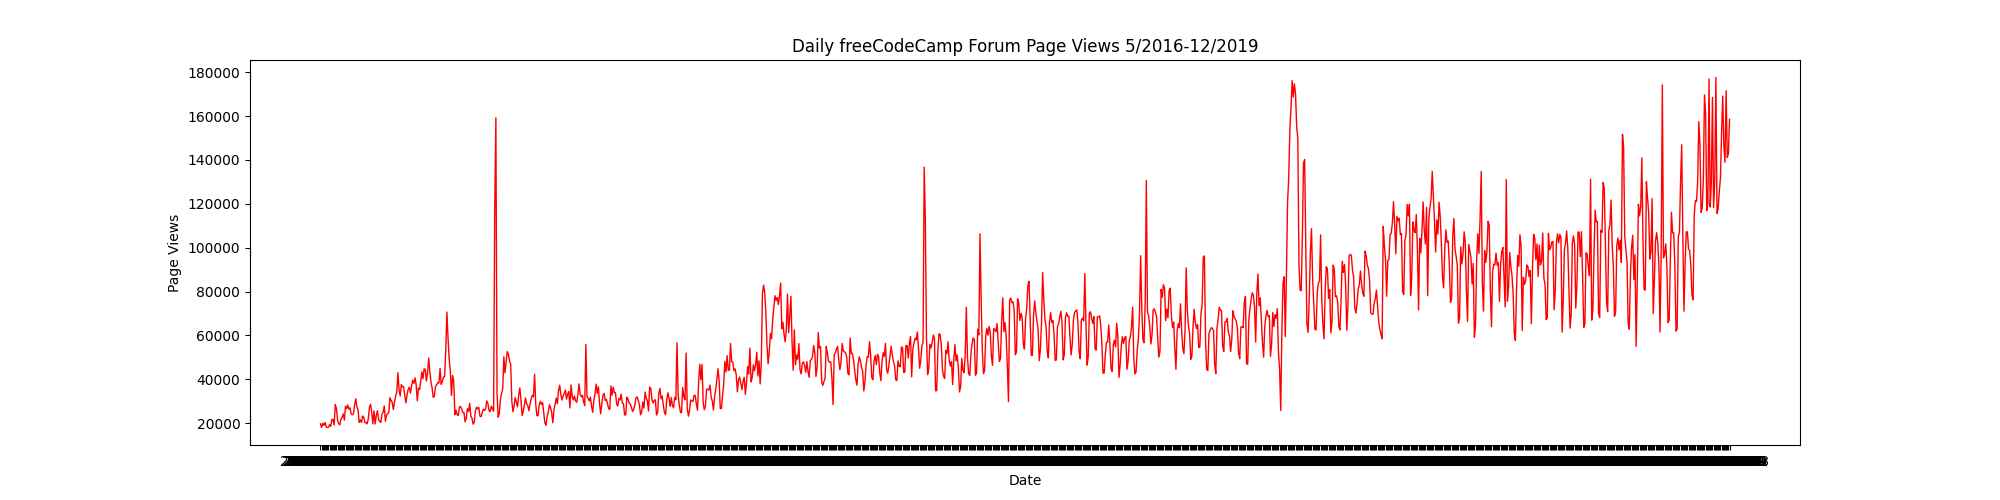
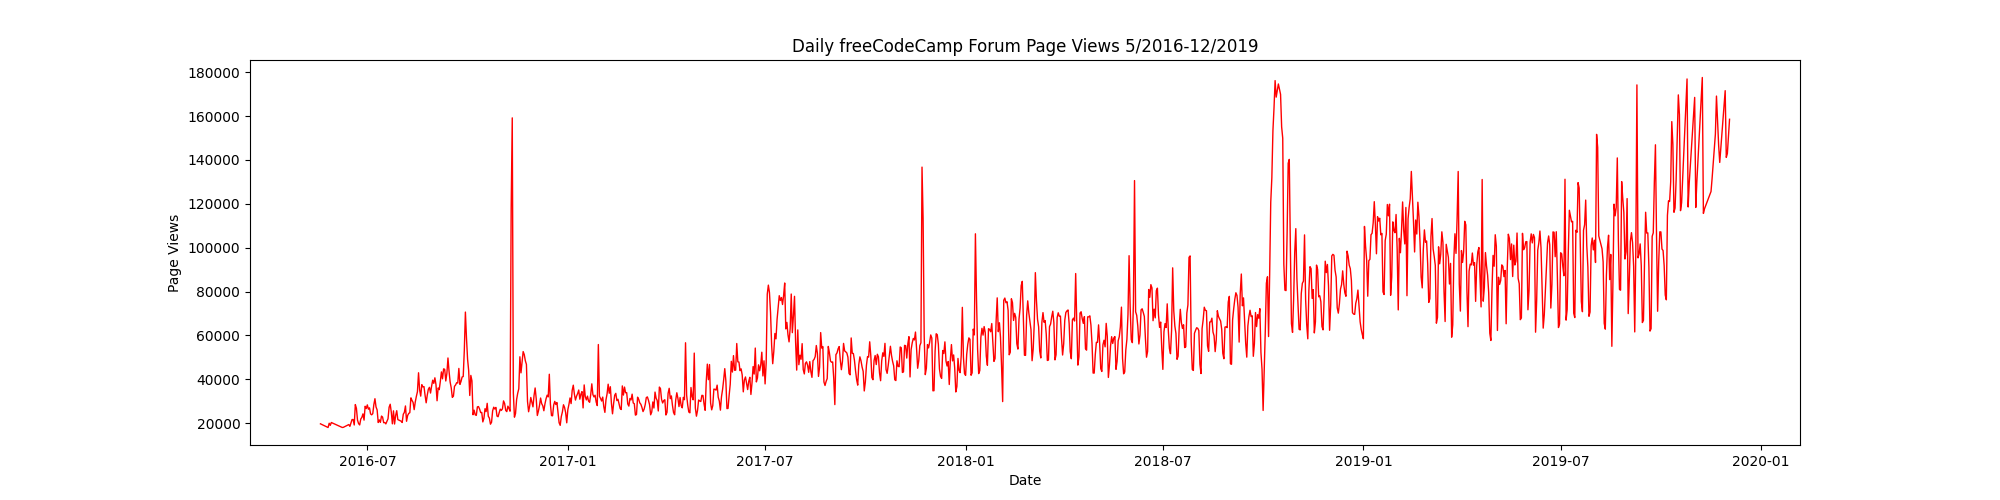
Final commit - All OK

Changed region(s): [[0.124, 0.15, 0.899, 0.93]]

diff --git a/time_series_visualizer.py b/time_series_visualizer.py
@@ -5,8 +5,7 @@ from pandas.plotting import register_matplotlib_converters
 register_matplotlib_converters()
 
 # Import data (Make sure to parse dates. Consider setting index column to 'date'.)
-df = pd.read_csv('fcc-forum-pageviews.csv')
-df = df.set_index('date')
+df = pd.read_csv('fcc-forum-pageviews.csv', parse_dates=['date'], index_col='date')
 
 # Clean data
 df = df[(df['value'] >= df['value'].quantile(0.025)) & (df['value'] <= df['value'].quantile(0.975))]
@@ -25,27 +24,27 @@ def draw_line_plot():
 
 def draw_bar_plot():
     # Copy and modify data for monthly bar plot
-    df_bar = df.reset_index()
-    df_bar['year'] = pd.to_datetime(df_bar['date']).dt.year
-    df_bar['month'] = pd.to_datetime(df_bar['date']).dt.month_name()
-    df_bar = df_bar.drop(columns=['date'])
-    
-    years_list = df_bar['year'].unique()
-    months_list = df_bar['month'].unique()    
-    
-    year_month_dict = {}
-    for year in years_list:
-        year_month_dict[year] = dict.fromkeys(list(df_bar[df_bar['year'] == year]['month'].unique()))
-    
-    for year in year_month_dict:
-        for month in year_month_dict[year]:
-            year_month_dict[year][month] = df_bar[(df_bar['year'] == year) & (df_bar['month'] == month)]['value'].mean()
-    
-    df_bar =  pd.DataFrame.from_dict(data=year_month_dict, orient='index', columns= ['January', 'February', 'March' ,'April', 'May', 'June', 'July', 'August', 'September', 'October', 'November', 'December'])
-    df_bar = df_bar.sort_index()
-    
-    # Draw bar plot¿
-    fig = df_bar.plot.bar(xlabel='Years', ylabel='Average Page Views').figure
+    df_bar = df.copy()
+    df_bar['month'] = df_bar.index.month
+    df_bar['year'] = df_bar.index.year
+    df_bar = df_bar.groupby(['year', 'month'])['value'].mean() 
+    df_bar=df_bar.unstack()
+
+    # Draw bar plot    
+    fig= df_bar.plot.bar(legend=True, figsize= (10,5), ylabel='Average Page Views',       
+    xlabel='Years').figure
+    plt.legend(['January',
+        'February',
+        'March',
+        'April',
+        'May',
+        'June',
+        'July',
+        'August',
+        'September',
+        'October',
+        'November',
+        'December'])
 
     # Save image and return fig (don't change this part)
     fig.savefig('bar_plot.png')
@@ -59,11 +58,36 @@ def draw_box_plot():
     df_box['month'] = [d.strftime('%b') for d in df_box.date]
 
     # Draw box plots (using Seaborn)
-
-
-
-
+    fig, axes = plt.subplots(1, 2, figsize=(10,5), dpi= 80)
+    sns.boxplot(x='year', y='value', data=df_box, ax=axes[0]).set(xlabel = "Year", ylabel = "Page Views", title = "Year-wise Box Plot (Trend)")
+    sns.boxplot(x='month', y='value', data=df_box, order=['Jan','Feb','Mar','Apr','May','Jun','Jul','Aug','Sep','Oct','Nov','Dec'], ax=axes[1]).set(xlabel = "Month", ylabel = "Page Views", title = "Month-wise Box Plot (Seasonality)")
 
     # Save image and return fig (don't change this part)
     fig.savefig('box_plot.png')
     return fig
+
+#############################################################################################################################################################################################################################################
+
+    # Copy and modify data for monthly bar plot
+    # df_bar = df.copy()
+    # df_bar.reset_index(inplace=True)
+    # df_bar['year'] = pd.to_datetime(df_bar['date']).dt.year
+    # df_bar['month'] = pd.to_datetime(df_bar['date']).dt.month_name()
+    # df_bar = df_bar.drop(columns=['date'])
+    
+    # years_list = df_bar['year'].unique()
+    # months_list = df_bar['month'].unique()    
+    
+    # year_month_dict = {}
+    # for year in years_list:
+    #     year_month_dict[year] = dict.fromkeys(list(df_bar[df_bar['year'] == year]['month'].unique()))
+    
+    # for year in year_month_dict:
+    #     for month in year_month_dict[year]:
+    #         year_month_dict[year][month] = df_bar[(df_bar['year'] == year) & (df_bar['month'] == month)]['value'].mean()
+    
+    # df_bar =  pd.DataFrame.from_dict(data=year_month_dict, orient='index', columns= ['January', 'February', 'March' ,'April', 'May', 'June', 'July', 'August', 'September', 'October', 'November', 'December'])
+    # df_bar = df_bar.sort_index()
+    
+    # Draw bar plot
+    # fig = df_bar.plot.bar(xlabel='Years', ylabel='Average Page Views').figure

diff --git a/main.py b/main.py
@@ -3,9 +3,9 @@ import time_series_visualizer
 from unittest import main
 
 # Test your function by calling it here
-# time_series_visualizer.draw_line_plot()
+time_series_visualizer.draw_line_plot()
 time_series_visualizer.draw_bar_plot()
-# time_series_visualizer.draw_box_plot()
+time_series_visualizer.draw_box_plot()
 
 # Run unit tests automatically
 main(module='test_module', exit=False)
